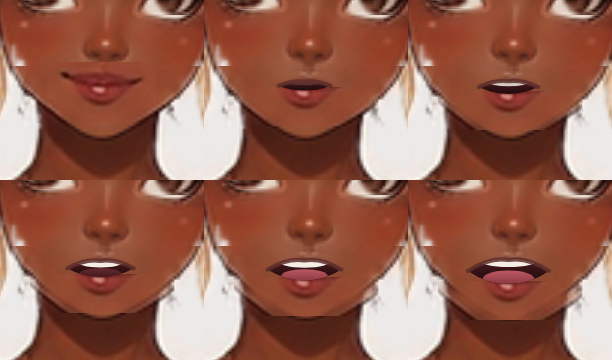
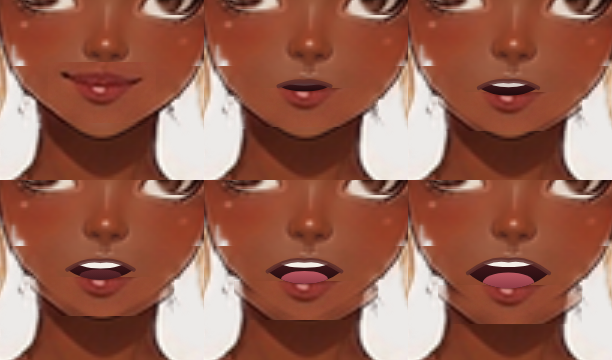
talk UX: Y/V speak with the rigged mouth; remove viseme slide
- hotkey Y (and V) triggers talk; she speaks with the jaw/cavity/vowel rig
  (speech timeline), no more viseme art slideshow panel (removed from UI)
- jaw_dy 5.5 -> 7.0 pose px so speaking reads at full-body scale; re-verified
  19/19 selftest + ramp evidence (still anatomical, lower lip rides the jaw)
- subtle rhythmic head nod while speech timeline is active (talk reads even
  when the face is small on screen)

diff --git a/app/src/App.tsx b/app/src/App.tsx
@@ -7,14 +7,6 @@ import { subscribePointer, subscribeTriggers } from "./companion/bridge";
 import { CompanionStateMachine } from "./companion/stateMachine";
 import { FaceFollower } from "./companion/faceFollow";
 import { BrainStatus, ChatMsg, askBrain, fallbackReply, probeBrain, reactTo } from "./companion/brain";
-import visA from "../../expressions/viseme_A.png";
-import visI from "../../expressions/viseme_I.png";
-import visU from "../../expressions/viseme_U.png";
-import visE from "../../expressions/viseme_E.png";
-import visO from "../../expressions/viseme_O.png";
-
-const VISEMES = ["A", "I", "U", "E", "O"] as const;
-const VISEME_URL: Record<(typeof VISEMES)[number], string> = { A: visA, I: visI, U: visU, E: visE, O: visO };
 
 const TRIGGERS: { id: TriggerName; label: string; key: string }[] = [
   { id: "greet", label: "Greet / wave", key: "G" },
@@ -22,7 +14,7 @@ const TRIGGERS: { id: TriggerName; label: string; key: string }[] = [
   { id: "think", label: "Thinking", key: "T" },
   { id: "notify", label: "Notification", key: "N" },
   { id: "playful", label: "Wink / playful", key: "P" },
-  { id: "talk", label: "Talk demo", key: "V" },
+  { id: "talk", label: "Talk (ela fala)", key: "Y" },
 ];
 
 const FACE_BY_TRIGGER: Record<TriggerName, FaceParams> = {
@@ -51,13 +43,10 @@ export default function App() {
   const smRef = useRef<CompanionStateMachine | null>(null);
   const rendererRef = useRef<CompanionRenderer | null>(null);
   const followerRef = useRef<FaceFollower | null>(null);
-  const talkingRef = useRef(false);
   const [rendererKind, setRendererKind] = useState<"loading" | "static" | "live2d" | "puppet">("loading");
   const [modelFound, setModelFound] = useState<boolean | null>(null);
   const [rigFound, setRigFound] = useState<boolean | null>(null);
   const [pose, setPose] = useState<PoseName>("neutral");
-  const [talking, setTalking] = useState(false);
-  const [viseme, setViseme] = useState<(typeof VISEMES)[number]>("A");
   const [log, setLog] = useState<string[]>([]);
   const [faceOn, setFaceOn] = useState(false);
   const [brain, setBrain] = useState<BrainStatus | null>(null);
@@ -90,9 +79,7 @@ export default function App() {
       }
     };
     sm.onTalk = (active) => {
-      talkingRef.current = active;
-      setTalking(active);
-      if (active) pushLog("talk demo: viseme preview (art only, not rig mouth motion)");
+      pushLog(active ? "talk: boca rigada a falar (jaw + cavidade + vogais)" : "talk: fim");
     };
 
     (async () => {
@@ -135,15 +122,10 @@ export default function App() {
     const offTriggers = subscribeTriggers((t) => sm.trigger(t));
     const offPointer = subscribePointer((x, y) => renderer?.setGaze(x, y));
 
-    const visemeTimer = window.setInterval(() => {
-      if (talkingRef.current) setViseme((v) => VISEMES[(VISEMES.indexOf(v) + 1) % VISEMES.length]);
-    }, 120);
-
     return () => {
       disposed = true;
       offTriggers();
       offPointer();
-      window.clearInterval(visemeTimer);
       followerRef.current?.stop();
       renderer?.dispose();
     };
@@ -222,9 +204,10 @@ export default function App() {
           <>
             the <b>component puppet</b> is live: eyeballs translate inside clipped eye openings
             around <b>her real on-screen eye axis</b>, lids blink over them, brows move
-            independently, head follows with its own limits. New: webcam face-follow and a
-            local-LLM brain hook (LM Studio) — both on-device, both optional. Mouth/torso
-            components remain later milestones; this is <b>not</b> Live2D/Inochi2D.
+            independently, head follows with its own limits, and the <b>mouth/jaw rig speaks</b>
+            (key <b>Y</b> or the Talk button, and chat replies): jaw drop + clipped oral cavity
+            + gradual teeth/tongue + vowel shapes. Webcam face-follow and the local-LLM brain
+            hook (LM Studio) are on-device and optional. This is <b>not</b> Live2D/Inochi2D.
           </>
         ) : (
           <>static-sprite placeholder (transform-only idle). Not a rig.</>
@@ -235,10 +218,6 @@ export default function App() {
         <section className="stage">
           <canvas ref={canvasRef} />
           <video ref={videoRef} className="pip" muted playsInline hidden={!faceOn} />
-          <div className={`mouth-preview ${talking ? "active" : ""}`}>
-            <img src={VISEME_URL[viseme]} alt={`viseme ${viseme}`} />
-            <div className="cap">viseme {viseme} · art preview</div>
-          </div>
         </section>
 
         <aside className="panel">

diff --git a/app/src/puppet/PuppetRenderer.ts b/app/src/puppet/PuppetRenderer.ts
@@ -181,9 +181,11 @@ export class PuppetRenderer implements CompanionRenderer {
 
     // head: same direction reference, smaller limits, slower smoothing (never a copy)
     const ht = headTarget(this.gaze, this.man.limits);
+    // while speaking: tiny rhythmic nod so the talk reads even at full-body scale
+    const nod = this.jaw.speechActive(this.t) ? 0.5 * Math.sin(this.t * 7) : 0;
     this.head.rot = smoothDamp(this.head.rot, ht.rot, 5, dt);
     this.head.dx = smoothDamp(this.head.dx, ht.dx, 5, dt);
-    this.head.dy = smoothDamp(this.head.dy, ht.dy, 5, dt);
+    this.head.dy = smoothDamp(this.head.dy, ht.dy + nod, 5, dt);
 
     this.brow = smoothDamp(this.brow, this.browTarget, 8, dt);
 

diff --git a/app/src/companion/bridge.ts b/app/src/companion/bridge.ts
@@ -15,6 +15,7 @@ const KEY_MAP: Record<string, TriggerName> = {
   n: "notify",
   p: "playful",
   v: "talk",
+  y: "talk",
 };
 
 export function subscribeTriggers(cb: (t: TriggerName) => void): () => void {
